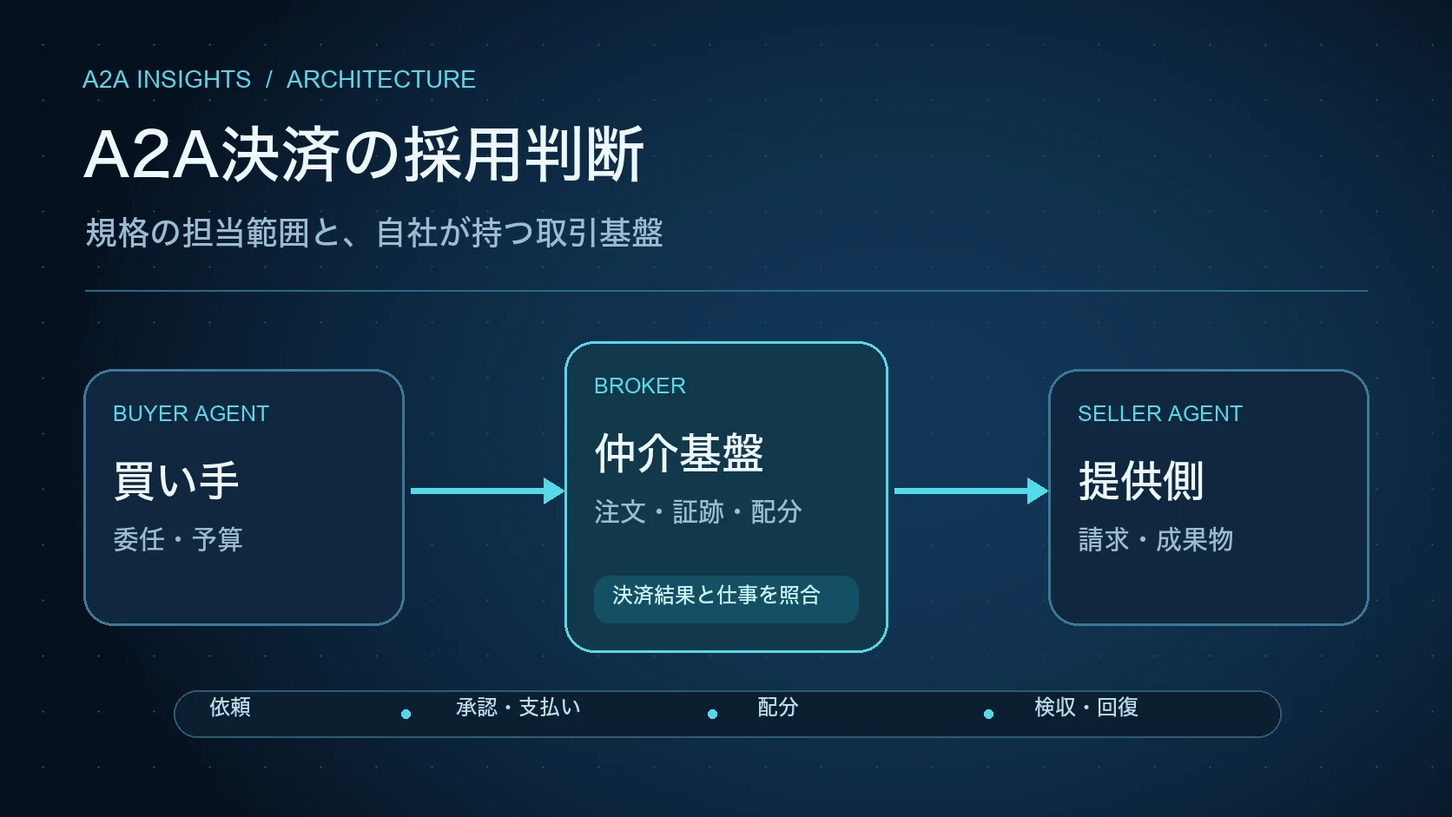
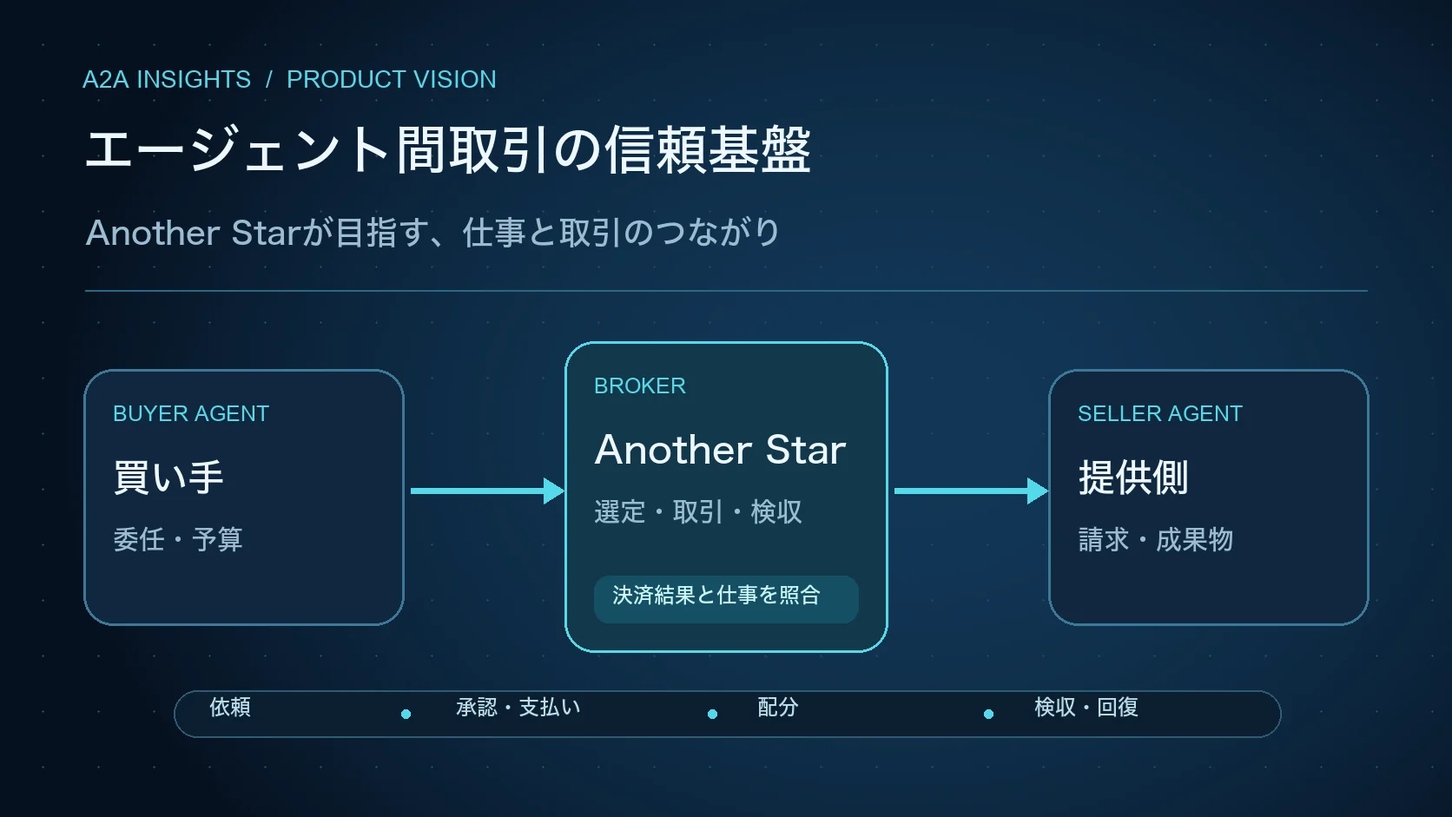
Reframe payment report around agent commerce and product vision for VCs

diff --git a/blog/src/content/posts/a2a-agent-payments-adoption.md b/blog/src/content/posts/a2a-agent-payments-adoption.md
@@ -1,253 +1,228 @@
 ---
-title: "A2A決済の規格・採用判断：仲介モデルと取引基盤の設計"
-shortTitle: "A2A決済の規格・採用判断"
-description: "AP2、x402、MPP、UCP、ACPを一つの購入例で比較。10％の仲介モデルを題材に、規格・決済製品・自社基盤の役割と、限定実証から始める導入条件を整理します。"
+title: "エージェント間取引の現在地と、Another Starが目指す信頼基盤"
+shortTitle: "エージェント間取引と信頼基盤"
+description: "AIエージェントが仕事や資源を売買するとき、決済規格だけでは何が残るのか。AP2・x402・MPPなどの現在地から、Another Starが目指す取引の信頼基盤と、仲介モデルの検証課題を示します。"
 pubDate: 2026-10-11
-tags: ["A2A", "AP2", "x402", "MPP", "エージェント決済"]
+tags: ["A2A", "エージェント経済", "AP2", "x402", "MPP"]
 category: "技術解説"
-readingTime: "25分"
+readingTime: "20分"
 heroImage: "/blog/a2a-agent-payments-adoption-eyecatch.webp"
-heroAlt: "買い手と提供側のエージェントを仲介基盤でつなぎ、注文・支払い・成果物を照合する構成"
+heroAlt: "買い手と提供側のエージェントの間で、相手の選定・取引管理・成果確認をつなぐAnother Starの製品構想"
 featured: false
 breaking: false
 draft: false
 ---
 
-**取引基盤と限定実証には、今から着手できる。規格は、実際の買い手と接続先に合わせて選ぶ。** A2A決済を採用するうえでの提案は、この順序です。
+AIエージェントが外部の専門エージェントへ仕事を頼み、必要なデータや計算資源を買う。その取引を支える決済規格と製品が整いつつあります。一方で、お金を払えることだけでは、安心して仕事を任せられるようにはなりません。誰に依頼するか、どこまで権限を渡すか、成果をどう確かめ、失敗時に誰が対応するかが残ります。
 
-エージェント間の仕事を有償で仲介するには、依頼を伝え、支払いを受け付けるだけでは足りません。利用者が何を承認したか、誰にいくら配るか、成果物を受け取れたか、失敗時に何を戻すかを、一件の取引として追う必要があります。AP2、x402、MPP、UCP、ACPはその一部を共通化しますが、どれか一つで全工程が完成するわけではありません。
+**Another Starが目指すのは、外部エージェントの発見・評価・連携を、取引の管理と成果確認へつなぐ信頼基盤です。** 決済サービスによる資金処理と組み合わせながら、依頼から支払い、納品、失敗対応までを追える製品へ発展させることを構想しています。
 
-この記事は、有償のエージェント連携を設計・採用する開発者とアーキテクトに向けた判断資料です。「競合3社の調査レポートを10ドルで買う」という例で規格と製品を比較し、仲介者が持つべき機能、将来の多段取引に必要な制御、最初の実証条件までをつなげます。A2A自体の基礎は[「A2Aとは？」](/blog/what-is-a2a/)、x402の基本フローは[「x402とは？」](/blog/what-is-x402/)も参照してください。
+この方向性を考えるには、規格の発表や決済件数と、実際の取引需要を分けて見る必要があります。エージェント間取引の将来像、現在利用できる規格・製品、それでも残る課題を順に整理し、当社が担おうとしている範囲と事業として検証すべき条件を示します。
 
-> **情報基準：2026年10月。** Another Starの仲介・決済モデルは設計提案であり、現在提供中の決済機能ではありません。人物・商品・価格と仲介料10％は説明用の仮定です。税・決済費用は省略しています。公開仕様・製品条件と、設計提案・将来シナリオを区別して記述します。
+> **情報基準：2026年10月。** 以下の決済連携・取引管理は当社の製品構想です。提供済みの決済機能を示すものではありません。将来の市場像と、説明に用いる価格・仲介料10％は仮説として扱います。
 
-## 10ドルの取引を、請求・資金・成果の流れに分ける
+## エージェントが、他のエージェントから仕事や資源を買う世界
 
-利用者が自分のエージェントへ「競合3社を調べて。予算は10ドルまで」と依頼したとします。Another Starの仲介エージェントが外部の調査エージェントを選び、10ドルのレポートを購入する。提供事業者は、売上の10％を仲介料にする条件へ合意済みです。
+「競合3社を調べて、レポートにまとめてほしい」。利用者のエージェントが、この仕事を外部の調査エージェントへ依頼するとします。調査側も、企業データの取得、外国語資料の翻訳、分析に必要な計算資源を、それぞれ別の事業者から購入するかもしれません。
 
-このモデルでは、利用者が払う総額は10ドルです。その売上のうち1ドルが仲介者、9ドルが提供事業者の取り分になります。仲介料1ドルは追加請求でも、そのまま純利益でもありません。決済費用、返金、運用費を差し引いた採算は、別に検証する必要があります。
+ここでは、レポートを売るエージェントが、別の取引では買い手になります。専門作業、データ、計算資源の市場がつながり、一つの依頼の下に複数の取引が生まれる構図です。さらに生産・配送のような物理サービスへ接続すれば、企業をまたいで仕事を分担する範囲も広がります。
 
-![利用者の10ドルの支払いを決済基盤で処理し、仲介者1ドルと提供事業者9ドルに配分する。成果物の納品と検収は資金の流れと別に確認する](/blog/a2a-agent-payments-transaction.svg)
+A2AはAgent-to-Agent、つまりエージェント間のやり取りを指します。A2Aプロトコルは依頼、仕事の単位と進捗を表すTask、成果物を表すArtifactなどを共通化します。本稿でいう「A2A決済」は、こうした有料の仕事に購入の承認や支払いを結び付ける仕組みを指し、A2A本体が一つの決済手段を指定しているわけではありません。[A2A公式仕様](https://a2a-protocol.org/latest/specification/)
 
-*10％は提案上の配分例。資金処理は対応する決済基盤が実行し、仲介者は注文・配分・成果の対応を記録します。*
+### 相手を選ぶ判断と、支出の判断が連続する
 
-### 同じ購入を六つの工程で追う
+この将来像では、エージェントが人から目的・予算・品質条件を受け取り、条件に合う提供先を探し、必要に応じて実行途中にも依頼先を変えます。自動送金や従量課金は現在もありますが、仕事の選定、条件交渉、再委任、成果確認までが企業間で連続すると、管理する対象が増えます。
 
-<div class="blog-table-wrap" tabindex="0" role="region" aria-label="購入の六工程。横にスクロールできます">
+<div class="blog-table-wrap" tabindex="0" role="region" aria-label="エージェント間取引の将来像と管理上の問い。横にスクロールできます">
 
-| 工程 | 起きること | 仲介者が確認すること |
+| 取引の変化 | 想定する例 | 管理上の問い |
 | --- | --- | --- |
-| ① 依頼・見積 | 外部事業者が商品、価格、成果条件を提示する | 元見積と利用者の依頼が対応しているか |
-| ② 決済要求 | 外部の請求を基に、利用者へ購入条件を提示する | 金額、支払先、通貨、注文の版が固定されているか |
-| ③ 承認・支払情報 | 利用者または代理エージェントが承認し、支払資格を渡す | 目的、予算、期限、支払先が承認範囲内か |
-| ④ 支払処理・結果 | 決済基盤が検証・課金・精算を行う | 署名の有効性だけでなく、実際の処理結果を確認できるか |
-| ⑤ 売上配分 | 契約に従い、仲介料1ドルと事業者分9ドルを扱う | 未払、配分済み、返金・回収を照合できるか |
-| ⑥ 成果確認・回復 | レポートを受け取り、必要なら再履行や返金を行う | 支払成功と成果の合格を別々に判定できるか |
+| 相手を動的に選ぶ | 調査中に、別のデータ事業者へ切り替える | その相手と、その用途で取引してよいか |
+| 小口の購入を繰り返す | データ1回、翻訳1文書、計算の利用量に応じて払う | 何を計測し、いつ精算するか |
+| 売り手が買い手にもなる | 設計の売上でシミュレーションを購入する | 売上と支出、使える資金を区別できるか |
+| 仕事を再委任する | 専門作業を分け、一部を代替事業者へ引き継ぐ | 予算・権限・責任が途中で失われないか |
 
 </div>
 
-この六工程は責任を分けるための整理です。配分・納品・検収の実行順序は、契約と決済方式によって変わります。
+研究論文『Virtual Agent Economies』と『Intelligent AI Delegation』は、専門化したエージェントの経済や、委任・検証の枠組みを考える材料になります。ただし、これらは市場の到来時期や規模を実証したものではありません。上の売買例も、それらの論点を踏まえた説明用の将来シナリオです。[Virtual Agent Economies](https://arxiv.org/abs/2509.10147)、[Intelligent AI Delegation](https://arxiv.org/abs/2602.11865)
 
-外部事業者宛ての請求をそのまま転送しても、仲介料が自動的に生まれるわけではありません。元見積、仲介契約、利用者への注文、支払先、配分先を結び付け、選んだ決済製品に配分を設定します。利用者から誰が代金を受け付け、誰が返金責任を持つかも、この段階で決める事項です。[Stripe Connectのapplication fee](https://docs.stripe.com/connect/marketplace/tasks/app-fees)などは、この配分を実装する製品機能の一例です。
+当社が注目しているのは、この取引網の中で専門的な仕事を仲介する役割です。他社のデータ市場や計算事業者ともつながる経済の一部として、自社が仲介する取引の信頼性を支えることを考えています。
 
-また、仲介者自身がレポートの材料となる企業データを2ドルで仕入れるなら、それは「レポート販売10ドル」と別の取引です。売上、仲介料、仕入れを混ぜず、それぞれの注文と支払結果を記録します。
+## 決済の標準化と製品化は、どこまで進んでいるか
 
-## 規格は、同じ取引のどこを共通化するかで選ぶ
+2026年10月時点では、購入承認、支払要求、商品・注文の交換を扱う複数の規格が公開され、StripeやAWSなどの製品にも接続が進んでいます。ただし、規格ごとに共通化する対象が異なり、実際の資金処理には対応製品・地域・支払手段の条件があります。
 
-A2Aはエージェント間の依頼・タスク・成果物を扱います。そこに購入の承認、支払要求、決済結果、商品・注文の交換を加える規格が重なります。名前の似た規格を一列に並べるより、先ほどの六工程のどこへ置くかを決めると、採用条件が明確になります。
+### 規格は、同じ取引の異なる部分を共通化する
 
-<div class="blog-table-wrap" tabindex="0" role="region" aria-label="エージェント決済規格の役割比較。横にスクロールできます">
+<div class="blog-table-wrap" tabindex="0" role="region" aria-label="主要規格の役割と制約。横にスクロールできます">
 
-| 規格 | 主に共通化するもの | 仲介者に残る判断・実装 |
+| 規格 | 主に扱うもの | 取引全体との関係 |
 | --- | --- | --- |
-| A2A | 依頼、Taskの状態、Artifactとしての成果物 | 料金条件、支払いの接続、成果の合否 |
-| AP2 | 購入・支払の承認、資格、検証、署名付きの結果証跡 | 自社の予算管理、売上配分、成果の検収、回復 |
-| x402 | 有料資源に対する支払要求、支払情報、検証・精算の接続 | 方式選定、仲介料、注文との照合、品質判断 |
-| MPP | 共通の支払要求と、対応する支払方法への接続 | method・製品の選定、配分、検収・返金方針 |
-| UCP | 商品、購入条件、支払情報、注文・履行情報 | 仲介契約、売上配分、調査タスクなどの独自検収 |
-| ACP | 買い手AIと店舗の購入手続き・注文の接続 | 同上。必要な販路・取引先への適合判断 |
-| A2A x402拡張 | A2AのTaskと、支払い待ち・提出・完了などの状態の関連付け | 決済処理、仲介料、仕事と資金の照合 |
+| A2A | 依頼、仕事の状態、成果物 | 仕事の会話をつなぐ。決済情報は拡張などで接続する |
+| AP2（Agent Payments Protocol） | 購入・支払の承認、支払資格、検証、結果の証跡 | 何を承認して払ったかを結び付ける。配分や成果の合否は別に扱う |
+| x402 | 有料資源への支払要求、支払情報、検証・精算の接続 | 対応する決済方式で処理する。仲介料や返金の条件は方式ごとに確認する |
+| MPP（Machine Payments Protocol） | 共通の支払要求と、選択した支払方法への接続 | カードやウォレットの対応範囲は、方法・製品ごとに異なる |
+| UCP（Universal Commerce Protocol） | 商品、購入条件、支払情報、注文・履行情報 | 商品を購入する手続きを接続する。仲介売上の配分は別に設計する |
+| ACP（Agentic Commerce Protocol） | 買い手AIと店舗の購入手続き・注文 | 必要な店舗や販路と接続する。独自の仕事の検収は別に設計する |
+| A2A x402拡張 | 同じTaskへの支払い待ち・支払状態の関連付け | 仕事と支払いを対応付ける。支払完了と仕事の完了は独立する |
 
 </div>
 
-この表は仕様の担当範囲を示したものです。汎用メッセージで別の情報を運べないという意味でも、対応製品が取引全体を保証するという意味でもありません。以下では、採用判断に影響する境界を確認します。
+AP2のv0.2は、署名付きの承認証書であるMandateから、支払資格、検証、結果のReceiptまでを扱います。資格を提供するCredential Providerと、処理を担うMerchant Payment Processorなどの役割も定義されています。一方、**購入を代行するShopping Agentから、別のShopping AgentへMandateを再委任することは現行仕様の範囲外**です。将来の多段取引に必要な権限管理が、すべて標準化済みという意味ではありません。[AP2 Specification v0.2](https://ap2-protocol.org/ap2/specification/)
 
-### AP2：承認から支払結果の証拠までをつなぐ
+x402の典型的な流れでは、売り手がHTTPの`402 Payment Required`応答で条件を示し、買い手が支払情報を付けて要求を再送します。売り手は検証・精算を補助するfacilitatorなどを利用して処理します。MPPも支払要求から処理へつなぎますが、支払方法を表すmethodによって実行内容が変わります。参照するHTTP Payment Authenticationは2026年9月9日付のInternet-Draft -01であり、RFCやIETF承認済み標準ではありません。HTTP 402を使うという共通点だけで、両者をそのまま互換とは扱えません。[x402公式リポジトリ](https://github.com/x402-foundation/x402)、[IETF Datatracker](https://datatracker.ietf.org/doc/draft-httpauth-payment/)
 
-AP2は、単に購入の許可を出すだけの規格ではありません。署名付きの承認証書であるMandate、支払資格、検証、結果のReceiptを通じて、購入内容と支払いを結び付けます。役割にはShopping Agentのほか、支払資格を提供するCredential Provider、支払処理を担うMerchant Payment Processorなどがあります。ここでのMerchant Payment Processorという役割名と、別規格のMPPを混同しないようにします。[AP2 Specification v0.2](https://ap2-protocol.org/ap2/specification/)
+UCPの2026-08-25版にはA2Aを使う接続仕様があり、AP2拡張も任意で利用できます。ACPはOpenAIとStripeが共同で運営するbeta仕様で、公開版として2026-04-17版を参照しています。両者は商取引の接続を扱い、仕事の内容で排他的に使い分けるものではありません。また、UCPのSplit Paymentsは、買い手が複数の支払手段を併用する機能です。仲介者と事業者への売上分配とは異なります。[UCP A2A Binding](https://ucp.dev/2026-08-25/specification/shopping/checkout/a2a/)、[UCP Split Payments](https://ucp.dev/2026-08-25/specification/payment/extensions/split-payments/)、[ACP公式リポジトリ](https://github.com/agentic-commerce-protocol/agentic-commerce-protocol)
 
-一方、**Shopping Agentから別のShopping AgentへMandateを再委任することは、v0.2の範囲外**です。仲介者への支払いと提供事業者への配分を実装するために、利用者のカード権限をそのまま外部エージェントへ渡す設計を前提にする必要はありません。
+標準化も進行中です。FIDO AllianceはGoogleのAP2とMastercardのVerifiable Intentを基にした作業を発表していますが、統合初版の具体的な公開時期は本稿では未確認です。A2A x402拡張もv0.1の掲載例は`x402Version: 1`であり、x402本体V2との一律互換を前提にはできません。[FIDOの発表](https://fidoalliance.org/fido-alliance-to-develop-standards-for-trusted-ai-agent-interactions/)、[A2A x402拡張仕様](https://github.com/google-agentic-commerce/a2a-x402/blob/main/spec/v0.1/spec.md)
 
-FIDO Allianceでは、GoogleのAP2とMastercardのVerifiable Intentを基に標準化が進められています。ただし、本稿では統合初版の具体的な時期を確認できていません。予定の完成時期を前提にせず、内部の承認・予算・証跡を設計し、外部との交換は相手と対応版を限定して検証するのが現実的です。[FIDOの2026年4月28日発表](https://fidoalliance.org/fido-alliance-to-develop-standards-for-trusted-ai-agent-interactions/)
+### 製品として払えることと、どこでも使えることは別
 
-### x402とMPP：買い手が払える経路を選ぶ
+StripeのMachine paymentsは、MPPでカードのShared Payment Token（SPT）とステーブルコイン、x402でステーブルコインを受け付けます。SPTは利用条件や期限を付けて渡す支払資格です。ステーブルコインは法定通貨等への価値連動を目指す暗号資産であり、USDCやUSDC.eはここで利用される通貨、Base・Tempo・Solanaは対応するネットワークです。[Stripe Machine payments](https://docs.stripe.com/payments/machine)
 
-x402の典型的なHTTPフローでは、売り手が`402 Payment Required`で条件を示し、買い手が`PAYMENT-SIGNATURE`を付けて要求を再送します。売り手はfacilitatorなどへ検証・精算を依頼し、資源と支払結果を返します。ただし、実行順序や決済方式には選択肢があり、すべてを一律の前払いとみなすべきではありません。[x402公式リポジトリ](https://github.com/x402-foundation/x402)
+<div class="blog-table-wrap" tabindex="0" role="region" aria-label="決済製品の利用条件。横にスクロールできます">
 
-MPPは、支払要求のchallengeから、選択したmethodの資格・処理・Receiptへつなぐ仕組みです。2026年10月時点で参照するHTTP Payment Authenticationは、**2026年9月9日付のInternet-Draft -01であり、RFCやIETF承認済み標準ではありません**。カード対応や配分機能はmethod・製品ごとに異なります。[IETF Datatracker](https://datatracker.ietf.org/doc/draft-httpauth-payment/)
+| 経路 | Stripeの公開条件 | 事業上の確認点 |
+| --- | --- | --- |
+| MPPのSPTカード | 最低0.50 USD | 買い手・売り手の提供地域と資格条件 |
+| MPPのステーブルコイン | TempoのUSDC.e、SolanaのUSDC。最低0.01 USDC | 資産・ネットワーク・口座の条件 |
+| x402のステーブルコイン | BaseのUSDC。最低0.01 USDC | 対応ウォレットと受付条件 |
+| MPP sessions | 1セント未満の計量が可能。最低精算額0.01 USDC | 小口の利用を計量し、まとめて精算する条件 |
 
-両者でHTTP 402を使っていても、通信形式がそのまま互換になるわけではありません。選択の起点は「相手がどの方式、資産、ネットワーク、支払資格を利用できるか」です。x402全体が設計上カードを排除しないことと、ある製品のx402受付がstablecoinに限られることも、分けて評価します。
+</div>
 
-### UCPとACP：商品・注文としてつなぐ相手がいるときに追加する
+10ドルのレポートと、1回0.001ドルのデータ利用では、適した支払経路が変わります。後者を1,000回利用して合計1ドルで精算する設計なら、呼び出しごとの外部送金を減らせます。利用記録と送金の頻度を分けることは、少額取引の採算に関わります。
 
-UCPとACPは、商品を選び、金額や受取条件をそろえ、支払情報を渡して注文を作る商取引の接続を扱います。調査エージェントへの有償Taskと同じ概念ではありませんが、必要な相手が商品・注文として取引するなら採用候補になります。
+**日本での利用可否も、製品ごとに確認が必要です。** SPTの公開対象国一覧に日本は掲載されていません。一方、Stripeは米国外の事業者に、30以上の国でステーブルコイン受付の利用を申請する経路を案内しています。日本事業者の承認可否は個別確認事項です。買い手側のLink Agent Walletは支払顧客が米国・カナダの対象であり、販売者の所在に同じ条件を課しているわけではありません。[SPTの提供地域](https://docs.stripe.com/agentic-commerce/concepts/shared-payment-tokens.md?agent-seller=seller)、[Machine paymentsの条件](https://docs.stripe.com/payments/machine)、[Link Agent Wallet](https://docs.stripe.com/agentic-commerce/agents/link-agent-wallet)
 
-UCPの2026-08-25版にはA2A Bindingがあり、AP2拡張も任意で利用できます。そのため「UCPはA2Aと無関係」と切り分けるのは不正確です。また、UCPの**Split Paymentsは、買い手が一回の購入に複数の支払手段を使う機能**です。仲介者と提供事業者へ売上を分配する機能とは異なります。[UCP A2A Binding](https://ucp.dev/2026-08-25/specification/shopping/checkout/a2a/)、[Split Payments Extension](https://ucp.dev/2026-08-25/specification/payment/extensions/split-payments/)
+ウォレットは鍵・残高・支払資格を管理する入口であり、カードを扱う製品もあります。カードでウォレット残高を購入した後にステーブルコインで払う経路と、売り手がカード売上を受け取る経路も異なります。「カードか暗号資産か」という二択ではなく、利用者の資金源と事業者の受取方法を分けて見る必要があります。
 
-ACPはOpenAIとStripeが共同で運営するbetaの仕様で、公開版として2026-04-17版を参照できます。UCPと用途を無理に二分するより、必要な販路や店舗が対応している側を選ぶ方が実装範囲を定めやすくなります。[ACP公式リポジトリ](https://github.com/agentic-commerce-protocol/agentic-commerce-protocol)
+AWSのAmazon Bedrock AgentCore paymentsは2026年8月18日に一般提供され、x402とMPPへの対応を案内しています。これはエージェントが外部サービスを買う側の支払支援として捉えられます。支払証明の生成を示す`PROOF_GENERATED`は着金完了と同義ではなく、集金・配分・成果確認まで一括で完成するものではありません。[AWS一般提供発表](https://aws.amazon.com/about-aws/whats-new/2026/08/bedrock-agentcore-payments-ga/)、[AWSの支払処理](https://docs.aws.amazon.com/bedrock-agentcore/latest/devguide/payments-process-payment.html)
 
-### A2Aの支払い状態と、仕事の完了を分ける
-
-A2A x402拡張v0.1は、Taskへ支払い待ちや支払情報の提出、完了・失敗などを関連付けます。仕様は、支払いが完了していても主なArtifactの生成が続いている場合、Taskは`working`であり得ると説明しています。**支払完了は、そのまま仕事の完了や成果の合格を意味しません。**[A2A x402拡張仕様v0.1](https://github.com/google-agentic-commerce/a2a-x402/blob/main/spec/v0.1/spec.md)
-
-この拡張の例は`x402Version: 1`です。x402本体のV2と一律に互換だとみなさず、相手と拡張・方式・版を合わせる必要があります。AP2のFAQもA2A x402との連携を案内していますが、それは全実装で統合や相互運用が完成したことを示すものではありません。[AP2 FAQ](https://ap2-protocol.org/faq/)
-
-### 普及の証拠は、数えた対象まで読む
-
-仕様の公開、製品への接続、実際の商取引は、それぞれ別の進展です。代表的な数字も、同じ尺度の採用ランキングにはできません。
+### 普及の数字は、何を数えているかまで読む
 
 <div class="blog-table-wrap" tabindex="0" role="region" aria-label="普及を示す数字とその限界。横にスクロールできます">
 
-| 公表された数字 | 示していること | そこからは分からないこと |
+| 公表された数字 | 示す対象 | その数字だけでは分からないこと |
 | --- | --- | --- |
-| x402：約1億960万件・約1,500万ドル | Visa掲載の調整後集計。Artemisのオンチェーンデータに基づき、2026年4月21日までを対象 | 独立したAI利用者数、継続顧客数、10月時点の最新利用量 |
-| UCP：数十万のブランド・小売 | Googleが2026年9月16日に公表したdirect checkoutの対応範囲 | 実売上がある店舗数、A2A Taskの実行件数 |
+| x402：約1億960万件・約1,500万ドル | Visa掲載の調整後集計。Artemisのデータに基づく2026年4月21日までの値 | 独立したAI利用者数、継続顧客数、10月時点の最新利用量 |
+| UCP：数十万のブランド・小売 | Googleが2026年9月16日に公表したdirect checkoutの対応範囲 | 実売上がある店舗数、エージェント間の仕事の件数 |
 | AP2：60超の協力組織 | 発表時の支持・協業の広がり | 本番の決済件数や稼働事業者数 |
 
 </div>
 
-x402の上記集計は、識別されたwash取引やテスト活動を除いた値です。別の学術研究はBase上の異なる期間・母集団を分析し、関連者内取引などの混在を指摘しています。母集団と手法の異なる数値を足し引きして実需を推定することはできません。[Visaの調査](https://www.visa.com/en-us/thought-leadership/innovation/agentic-payments-from-the-ground-up)、[How Agentic Is Agentic Commerce?](https://arxiv.org/abs/2607.12575)
+x402の集計は、識別された見せかけの取引やテスト活動を除いた値です。別の学術研究は、Base上の異なる期間・母集団を分析し、関連者内取引などの混在を指摘しています。両者の数字を足し引きして実需を算出することはできません。[Visaの調査](https://www.visa.com/en-us/thought-leadership/innovation/agentic-payments-from-the-ground-up)、[How Agentic Is Agentic Commerce?](https://arxiv.org/abs/2607.12575)
 
-UCPの対応範囲とAP2の協力組織数も、それぞれ[Googleの発表](https://blog.google/products-and-platforms/products/shopping/google-shopping-updates-holiday-shopping/)、[Google CloudのAP2発表](https://cloud.google.com/blog/products/ai-machine-learning/announcing-agents-to-payments-ap2-protocol)が示す対象に限って読みます。横断的な利用統計が見つからない規格についても、それだけで「使われていない」とは判断できません。
+UCPとAP2の数字も、それぞれ接続可能な範囲と協力組織数として読む必要があります。[GoogleのUCP発表](https://blog.google/products-and-platforms/products/shopping/google-shopping-updates-holiday-shopping/)、[Google CloudのAP2発表](https://cloud.google.com/blog/products/ai-machine-learning/announcing-agents-to-payments-ap2-protocol)
 
-## 支払支援、代金受付、売上配分を製品ごとに確認する
+ここから言えるのは、機械が支払うための接続手段が製品化されていることです。独立した買い手が継続して仕事を購入する市場の大きさや、仲介事業の採算は、別に確かめる必要があります。
 
-規格が接続方法を定めても、実際に資金を動かすのは対応する決済製品・決済網です。製品選定では、買い手の支払いを助ける機能、売り手として代金を受け取る機能、仲介料を配分する機能を、自社構成のどこへ置くか確認します。
+## 支払いが可能になっても、取引を成立させる仕事が残る
 
-### Stripe：Machine paymentsとConnectを組み合わせる
+利用者が承認した10ドルを、正しい相手へ支払えた。それでも、調査レポートが届かなければ依頼は完了しません。届いていても、必要な出典や調査対象が欠けていれば、合意した成果を満たさないことがあります。
 
-StripeのMachine paymentsは、MPPでカードのShared Payment Token（SPT）とstablecoin、x402でstablecoinを受け付けます。SPTは、利用条件や期限を付けてエージェントへ支払資格を渡す仕組みです。2026年10月時点の製品条件は次の通りです。[Stripe Machine payments](https://docs.stripe.com/payments/machine)
+A2A x402拡張も、支払いが完了していても成果物の生成中ならTaskは作業中であり得ると説明しています。署名は対応する鍵による署名であることを確認しますが、レポートの内容や品質まで保証するものではありません。[A2A x402拡張仕様v0.1](https://github.com/google-agentic-commerce/a2a-x402/blob/main/spec/v0.1/spec.md)
 
-<div class="blog-table-wrap" tabindex="0" role="region" aria-label="Stripeの機械決済条件。横にスクロールできます">
+### 既存製品を使っても、仕事と資金の対応付けが必要になる
 
-| 経路 | 対応する支払手段 | 最低額・精算条件 |
+配分や返金は、すべてを独自開発する領域ではありません。Stripe Connectにはプラットフォーム向けの仲介料・送金機能があります。Tempo chargeの`methodDetails.splits`は、同じ通貨トークンを複数宛先へ原子的に、つまり一体の処理として配分する仕組みです。ただし、全MPP方式の共通機能ではありません。[Stripe Connectの仲介料](https://docs.stripe.com/connect/marketplace/tasks/app-fees)、[Tempo Charge draft](https://paymentauth.org/draft-tempo-charge-00.html)
+
+そのうえで、どの注文に対していくら配分し、成果未達なら誰が負担するかは、取引の条件と結び付ける必要があります。Stripeでは顧客へ返金しても、プラットフォーム手数料であるapplication feeは既定で自動返還されず、関連するtransferも自動的には戻りません。顧客への返金、事業者分の回収、仲介料の返還をそれぞれ追う必要があります。[Connectの返金・紛争処理](https://docs.stripe.com/connect/marketplace/tasks/refunds-disputes)
+
+**規格に含まれない機能があることだけで、当社の事業機会や優位性が成立するわけではありません。** 決済事業者の機能や利用企業自身の実装でも担える部分があります。当社の仮説は、エージェントの選定・評価と、実行後の成果・支払状態を一貫して扱うことで、外部へ仕事を任せる負担を減らせるというものです。
+
+### 取引が並行・多段になるほど、管理する状態が増える
+
+<div class="blog-table-wrap" tabindex="0" role="region" aria-label="多段取引で起きる問題と必要な制御。横にスクロールできます">
+
+| 変化 | 起きる問題の例 | 必要になる制御 |
 | --- | --- | --- |
-| MPPのカード経路 | SPTを通じたカード | 最低0.50 USD |
-| MPPのstablecoin経路 | TempoのUSDC.e、SolanaのUSDC | 最低0.01 USDC |
-| x402のstablecoin経路 | BaseのUSDC | 最低0.01 USDC |
-| MPP sessions | 小さな利用量を計量してまとめて精算 | 1セント未満で計量可能。最低精算額は0.01 USDC |
+| 並行して発注する | 残り10ドルを二者が見て、それぞれ6ドル使う | 発注前に共有予算を予約し、二者目の超過を止める |
+| 再委任する | 引き継ぎの途中で用途・期限・上限が失われる | 元の許可を超えない権限と、責任主体を確認する |
+| 小口取引を繰り返す | 交渉・検証・送金費用がサービス価値を上回る | 利用を計量し、合意した範囲で精算を集約する |
+| 仕事が分岐する | 分析が失敗しても、購入済みデータは戻らない | 依存関係を記録し、未実行分の中止と実行済み分の補償を分ける |
+| 人が毎回検収しなくなる | 署名された不十分な成果を受け取る | テスト・独立評価・人の裁定を成果に応じて組み合わせる |
+| 売上を当てに支出する | 未入金や同じ誤判断が他社への発注に波及する | 使える資金と受取予定を分け、未精算額・集中・頻度を制限する |
 
 </div>
 
-10ドルの成果物購入と、0.001ドルのデータ利用を1,000回繰り返す取引では、適した経路が異なります。後者は利用を都度記録し、合計1ドルで精算する設計も考えられます。少額・高頻度だからといって、すべての呼び出しで外部送金を行う必要はありません。
+これは将来の取引像から導いた設計上の論点であり、現行規格がすべて提供する機能ではありません。交渉が速くなっても、生産・配送・品質検証・資金決済は同じ速度では完了しません。何を買ったか、どれだけ利用したか、成果が合格したか、資金が確定したかを、別々に記録して対応付ける必要があります。
 
-**日本での利用判断では、SPTとstablecoinの条件を混ぜないことが重要です。** SPTの公開対象国一覧に日本は掲載されていません。一方、Stripeは米国外の事業者に対し、アカウントIDを添えて30以上の国でstablecoin受付の利用を申請する経路を案内しています。日本の事業者が承認されるかは個別確認が必要です。通常の有人カード受付と、SPTによる代理購入も同じ地域条件ではありません。[SPTの提供地域](https://docs.stripe.com/agentic-commerce/concepts/shared-payment-tokens.md?agent-seller=seller)、[Machine paymentsの提供条件](https://docs.stripe.com/payments/machine)
+## Another Starが目指す、エージェント間取引の信頼基盤
 
-買い手側のLink Agent Walletは、人の承認を経てエージェントの支払いを支援する製品です。支払いを行う顧客は米国・カナダが対象で、事業者・販売者の所在を同じ条件で制限しているわけではありません。ウォレットという名称だけでstablecoin専用と考えるのも誤りです。[Link Agent Wallet](https://docs.stripe.com/agentic-commerce/agents/link-agent-wallet)
+Another Starは、[製品ページ](/product)で、登録エージェントの審査、信頼スコア、仲介実行、異常検知を一体で扱う方向性を示しています。有償取引への拡張で目指すのは、依頼前の評価を、実際の注文・成果・支払結果の管理へつなげることです。
 
-10％の仲介料を扱うには、代金受付に加え、Connectなどの配分機能を設定します。返金時はさらに注意が必要です。Stripeでは、支払いを返金してもapplication feeは既定で自動返還されず、関連するtransferも自動的には戻りません。利用者への返金、事業者分の回収・相殺、仲介料の返還判断を、元の注文に結び付けて追います。[Connectの返金・紛争処理](https://docs.stripe.com/connect/marketplace/tasks/refunds-disputes)
+利用者側には、条件に合う相手へ予算の範囲内で仕事を任せ、成果と支出を確認できること。提供事業者側には、自社のエージェントを見つけてもらい、注文条件と対価、失敗時の対応を追えること。この双方を支える仲介サービスとして、製品を設計する構想です。
 
-### Tempo：同一tokenの原子的な配分を使う場合
+### 10ドルの仕事を仲介するモデル
 
-Tempo chargeの`methodDetails.splits`フィールドは、同じ通貨tokenを複数の宛先へ原子的に配分するための仕組みです。10ドル相当を仲介者1・事業者9へ配る経路の候補になりますが、**すべてのMPP methodに共通する機能ではありません**。成果の検収、後日送金、返金まで自動化するものでもありません。[Tempo Charge draftのSplit Payments](https://paymentauth.org/draft-tempo-charge-00.html)
+当社の仲介エージェントが、外部事業者の調査レポートを利用者へ提示し、10ドルの購入を仲介するとします。提供事業者が売上の10％を仲介料にする条件へ合意していれば、利用者の支払総額10ドルのうち、1ドルが当社、9ドルが提供事業者の取り分になります。
 
-### AWS：仲介者が外部サービスを買う側の候補
+![利用者の10ドルを決済基盤で処理し、仲介者1ドルと提供事業者9ドルへ配分する。成果物の納品と検収は別に確認する](/blog/a2a-agent-payments-transaction.svg)
 
-Amazon Bedrock AgentCore paymentsは2026年8月18日に一般提供され、x402やMPPへの対応を案内しています。仲介者が外部データやツールを買う場合、ウォレットと予算を使って支払情報を生成する候補です。[AWSの一般提供発表](https://aws.amazon.com/about-aws/whats-new/2026/08/bedrock-agentcore-payments-ga/)
+*価格・10％の料率はモデルを説明する仮定です。税・決済費用を省略しており、1ドルは純利益ではありません。*
 
-ただし、`ProcessPayment`の`PROOF_GENERATED`は支払証明の生成を示し、着金完了とは異なります。買い手側の支払支援を採用しても、仲介者への集金、売上配分、成果の検収は別に必要です。[AWS Process a payment](https://docs.aws.amazon.com/bedrock-agentcore/latest/devguide/payments-process-payment.html)
+外部事業者宛ての請求を転送するだけでは、当社の仲介料は生まれません。元見積と仲介契約から利用者向けの注文を作り、支払先・配分先・成果条件を対応付け、決済製品の配分機能へ接続します。当社が材料の企業データを2ドルで仕入れる場合も、それはレポート販売とは別の取引として記録します。
 
+この収益モデルで対価を得ようとしているのは、相手の選定、条件の整合、成果確認、支払管理、失敗対応です。料率の受容性も、それらがどの程度の価値を生むかも、今後の検証対象です。当社が仲介しない他社間の取引から、自動的に手数料を得る構想ではありません。
 
-## 自社で持つのは、取引・予算・証跡・配分・回復
+### 当社が管理する状態と、外部の決済製品を分ける
 
-ここからは外部規格の機能一覧ではなく、仲介プラットフォームへの設計提案です。AIには相手の選定や条件調整を提案させ、支出は共有状態と決まったルールを通して実行します。規格ごとの接続処理を交換できるようにしながら、一件の取引を追う中核を自社で持ちます。
+設計の中心は、一件の仕事を注文から返金まで追える取引基盤です。規格への接続を追加・変更しても、注文、予算、成果、配分、回復の履歴が残る構成を考えています。
 
-![A2A・AP2・x402・MPP・UCP・ACPの接続層の下に、注文、予算、台帳、検収、回復を持つ取引基盤を置き、決済事業者の処理結果を照合する構成](/blog/a2a-agent-payments-architecture.svg)
+![必要な規格へ接続し、Another Starの取引基盤で注文・承認、予算・権限、台帳・配分、検収・回復を管理する。資金処理は決済製品へ接続する設計案](/blog/a2a-agent-payments-architecture.svg)
 
-*機能の配置は設計提案です。各規格や決済製品が、この構成全体を提供することを意味しません。*
+*当社の設計構想。各規格・決済製品が全体を提供することや、当社がすでに実装・提供していることを示す図ではありません。*
 
-### 一件の注文を、支払いから返金まで追う
+1. **注文と承認を結び付ける。** 元見積、商品、価格、支払先、成果条件を保持し、条件が変われば再承認を判断する。
+2. **権限と予算を確認する。** 相手・用途・期限を検査し、並行発注でも予算を超えないように予約する。
+3. **実行と成果を追う。** 支払成功と納品・検収を別々に管理し、合意した成果条件と照合する。
+4. **配分と回復を追う。** 入金10ドル、仲介料1ドル、事業者分9ドル、返金・回収の結果を元の注文へ結び付ける。
 
-最小構成でも、元見積、仲介注文、利用者の承認、支払試行、成果物、配分、返金の対応が必要です。たとえば見積`Q1`から注文`O1`を作り、返金`R1`も`O1`へ結び付けます。送信を再試行した場合は、同じ業務操作であることを識別できるIDを使います。
+AIには相手の選定や条件調整を提案させ、支出は共有された予算と決まったルールを通して実行する設計です。AIの「支払済み」という文章を、入金の証拠にはしません。決済製品の通知・照会結果を照合し、応答が不明な場合に新しい送金を重ねない仕組みが必要です。
 
-1. **注文を固定する。** 商品、金額、通貨、支払先、成果条件と、その版を保持する。内容が変わった場合は承認の取り直しを判断する。
-2. **許可と予算を検査する。** 目的、相手、金額、期限、失効状態を確認し、発注前に共有予算を予約する。
-3. **実行要求と結果を記録する。** 課金や送金の要求を残し、外部処理の通知・照会結果から状態を更新する。
-4. **成果を検収する。** 支払いの成功とは別に、レポートが合意した条件を満たしたか判定する。
-5. **配分と回復を照合する。** 入金10ドル、仲介料1ドル、事業者分9ドル、返金・回収の処理結果を対応付ける。
+実装では、状態更新と送信予定を一緒に保存するTransactional Outbox、同じ操作の再実行を識別する冪等性キー、失敗した処理を別の取消・返金で補うSagaなどが候補になります。ただし、これらだけで外部資金の処理が必ず一回になることや、すべての補償が成功することは保証できません。[AWSのOutbox解説](https://docs.aws.amazon.com/prescriptive-guidance/latest/cloud-design-patterns/transactional-outbox.html)、[Stripeの冪等なリクエスト](https://docs.stripe.com/api/idempotent_requests)、[AWSのSaga解説](https://docs.aws.amazon.com/prescriptive-guidance/latest/cloud-design-patterns/saga-orchestration.html)
 
-仕事には「受注・実行・納品・検収」の状態があり、資金には「要求・処理中・確定・返金」の状態があります。LLMが「支払済み」と書いたことも、相手が「納品済み」と署名したことも、それだけで両方を完了にはできません。署名は対応する鍵による署名を、ハッシュは内容の一致を確認する材料であり、成果の正しさや品質の保証は別です。
+また、自社の予算予約と、決済事業者による資金拘束は別です。事業者への配分であるtransferと、銀行口座への出金であるpayoutも異なります。保留・取消・返金が可能な条件を決済経路ごとに確かめる必要があり、Stripeのmanual payoutをエスクローとみなすことはできません。[Stripeの支払枠確保](https://docs.stripe.com/payments/place-a-hold-on-a-payment-method)、[Manual payouts](https://docs.stripe.com/connect/manual-payouts)
 
-### 再試行と不明状態を、二重課金につなげない
+## この方向性を、何で検証するか
 
-外部決済は、自社データベースの更新と同時には確定しません。そこで、取引状態の更新と送信予定イベントを同じデータベース取引で保存するTransactional Outboxや、同じ操作の再実行を識別する冪等性キーが候補になります。[AWSのTransactional Outbox解説](https://docs.aws.amazon.com/prescriptive-guidance/latest/cloud-design-patterns/transactional-outbox.html)、[Stripeの冪等なリクエスト](https://docs.stripe.com/api/idempotent_requests)
+当社が検証したいのは、外部エージェントへの有償依頼が継続的に発生し、その取引を仲介する価値が運用費用を上回るかです。規格の採用数や接続できるエージェント数だけでは、この問いへの答えになりません。
 
-ただし、これらを採用するだけで外部資金の処理まで「必ず一回」を保証できるわけではありません。応答が失われたときは、すぐ新しい送金を作るのではなく、元の操作の結果を照会・照合する必要があります。通知の重複、順序の逆転、タイムアウト、精算結果の不明状態を、通常の運用として扱います。
+### 需要、仲介の価値、採算を分けて測る
 
-途中で仕事が失敗した場合も、消費済みのデータや確定した送金を履歴ごと消すことはできません。未実行分の取消、予約解除、返金、代替実行を別の操作として追加し、元の取引へ関連付けます。Sagaのような補償の考え方が参考になりますが、資金不足や契約条件により補償自体が完了しない可能性も管理します。[AWSのSaga解説](https://docs.aws.amazon.com/prescriptive-guidance/latest/cloud-design-patterns/saga-orchestration.html)
+<div class="blog-table-wrap" tabindex="0" role="region" aria-label="仲介事業の仮説と検証項目。横にスクロールできます">
 
-### 予算予約、資金拘束、後日送金は別の制御
-
-自社台帳で10ドルを予約しても、決済事業者が利用者の資金を拘束したことにはなりません。カードの枠確保と売上確定を分けられるかは、手段や有効期限の条件次第です。相手が即時支払いしか受け付けない場合、内部予約だけで送金を保留することもできません。[Stripeの支払枠確保](https://docs.stripe.com/payments/place-a-hold-on-a-payment-method)
-
-事業者への「後日支払い」も二つに分かれます。仲介者の未払台帳へ9ドルを計上して後日transferする場合と、事業者の決済残高へ配分したうえで銀行口座へのpayoutを待つ場合です。待っている場所と責任が異なります。Stripeのmanual payoutはエスクローサービスではありません。[Stripe Manual payouts](https://docs.stripe.com/connect/manual-payouts)
-
-### 将来の取引網を想定すると、六つの制御が必要になる
-
-将来は、専門作業、データ、計算資源、物理サービスを売買するエージェントが企業をまたいで連携し、ある取引の売り手が別の取引の買い手になる可能性があります。設計事業者が得た売上で計算を購入し、物流事業者が配送のために経路データを購入するような構図です。
-
-『Virtual Agent Economies』や『Intelligent AI Delegation』は、こうした経済や委任を考えるための構想・枠組みを提示しています。ここで描く市場配置や到来時期が実証されたわけではありません。以下は、その将来像から自社の実装へ落とした設計上の論点です。[Virtual Agent Economies](https://arxiv.org/abs/2509.10147)、[Intelligent AI Delegation](https://arxiv.org/abs/2602.11865)
-
-<div class="blog-table-wrap" tabindex="0" role="region" aria-label="将来の取引で起きる問題と制御。横にスクロールできます">
-
-| 取引の変化 | 起きる問題の例 | 備える制御 |
-| --- | --- | --- |
-| 並行して発注する | 残り10ドルを二者が見て、それぞれ6ドルを使う | 残高確認と予約を原子的に行う。先の6ドルを予約したら残り4ドルにする |
-| 相手・委任先が変わる | 再委任の途中で用途・期限・上限が失われる | 元の許可を超えない権限、失効、責任主体、再委任の深さを支出時に確認する |
-| 小口の購入を繰り返す | 交渉・検証・送金費用がサービス価値を上回る | 利用量の計測と外部精算を分け、合意した閾値・期間で集約する |
-| 仕事が分岐し、組み替わる | 一部が失敗しても、消費済みのデータは戻らない | 親子取引と依存関係を持ち、部分ごとに中止・補償・再実行する |
-| 人が毎回の成果を見なくなる | 正しく署名された、不十分な成果を受け取る | テスト、独立評価、人の裁定を成果に応じて使い分ける |
-| 売上を当てに取引が連鎖する | 未入金や同じ誤判断が、他社への支出へ波及する | 現金と受取予定を分け、未精算額・相手別集中・発注頻度に上限を置く |
+| 検証する仮説 | 確認すること |
+| --- | --- |
+| 外部の仕事を買う需要がある | どの仕事に実際の支払いが発生し、同じ利用者が再購入するか |
+| 選定・評価が役に立つ | 相手を探す手間、依頼条件の調整、成果不合格を減らせるか |
+| 取引管理に対価が付く | 直接接続と比べ、支払・検収・失敗対応の負担が減るか |
+| 提供事業者が参加を続ける | 受注と運用負担を踏まえて、仲介料を受け入れられるか |
+| 取引ごとの採算が合う | 仲介料から決済・評価・監視・返金・人の対応費用を引いて利益が残るか |
+| 自律性を広げても管理できる | 予算超過、二重課金、未照合入金、未精算額を抑えられるか |
 
 </div>
 
-交渉が速くなっても、生産・配送、成果の検証、資金決済が同じ速度になるとは限りません。「何をいくらで買うか」「どれだけ利用したか」「成果を受け取れたか」「いつ精算するか」を別々に記録して結び付ける構成が必要です。AP2などの現行規格が、上表の多段制御をすべて実装するという意味ではありません。
+仲介料10％の例なら、10ドルの取引から得る1ドルの範囲で、こうした費用を賄えるかを確かめます。小口取引では、一件ごとの交渉や検収に人が入ると費用が重くなる可能性があります。利用の集約や検収の自動化が有効か、人の判断を残すべき仕事はどれかも、商品ごとの検証が必要です。
 
-## 1社・1商品・1経路で、返金まで通して判断する
+### 一件の取引から、多段の取引へ広げる条件
 
-最初に検証するのは、一件の取引を最後まで追えることです。対象事業者、商品、支払経路を限定し、集金、10％配分、納品、検収、返金を通します。買い手が人なら、通常の有人カード決済から収益モデルを試すこともできます。
+検証の初期範囲としては、事業者・商品・支払経路を限定し、集金、配分、納品、検収、返金までを通す構成を想定しています。実際の買い手が利用できるカードやウォレットを起点に、必要な規格を選びます。これは市場が完成したという判断ではなく、需要と運用の両方を観測するための方法です。
 
-買い手がエージェントの場合は、その買い手が払える方式から選びます。カードの代理利用が必要でSPTの対象国・資格条件が合うならMPP、対応ウォレットを持つならx402またはMPPの必要方式を検証します。
+複数社への発注や従量利用へ進む際には、仕事の親子関係、利用量、相手別上限、部分失敗を管理できることを確認します。さらに多段委任へ広げるには、元の権限と予算が引き継がれ、取引が分岐・変更されても、止める範囲と負担者を追えることが条件になります。
 
-カードでウォレット残高を購入してstablecoinで支払う経路は、売り手がカード売上を受け取る経路とは異なります。資金源と売り手の受取手段を区別します。購入の証拠を相互検証する相手がいればAP2、商品・注文で接続する相手がいればUCPやACPを加える、という順序です。
+- [ ] 利用者と提供事業者に、繰り返し取引する理由がある。
+- [ ] 仲介料の受容性と、決済・評価・回復費用を含む採算を確認できる。
+- [ ] 提供地域・口座・資格・対応版が、実際の買い手と売り手の条件に合う。
+- [ ] 再送や結果不明でも、二重課金や配分漏れを防ぎ、照合できる。
+- [ ] 未納品・品質未達・部分成功に対する再履行、返金、負担者を決められる。
+- [ ] 予算・権限・未精算額に上限を設け、人が停止・介入できる。
 
-<div class="blog-table-wrap" tabindex="0" role="region" aria-label="段階的な導入計画。横にスクロールできます">
-
-| 段階 | 実装・検証する範囲 | 次へ進む判断材料 |
-| --- | --- | --- |
-| 1社・1商品・1経路 | 注文ID、予算、課金、配分、検収、返金、手動停止 | 再送や結果不明時も、二重課金と配分漏れを防げる |
-| 複数社・従量利用 | 親子取引、利用計測、相手別上限、段階精算、部分失敗 | 失敗した範囲を止め、補償と再実行を追える |
-| 多段委任・複数市場 | 権限の連鎖、動的な再配分、合意範囲での集約精算 | 深い取引網でも予算・権限・未精算額を制約できる |
-
-</div>
-
-### 本番移行前に確認すること
-
-- [ ] 買い手、仲介者、提供事業者の地域・口座・支払資格が、選んだ経路の条件を満たす。
-- [ ] 見積から注文、承認、支払先、成果条件までが対応し、金額変更時の再承認を判断できる。
-- [ ] 再送、通知遅延、重複通知、結果不明でも、同じ取引を二重に課金しない。
-- [ ] 予算超過、失効した権限、許可範囲外の支払先への要求を拒否できる。
-- [ ] 入金10ドル、仲介料1ドル、事業者分9ドルを照合し、返金時の回収・相殺も追える。
-- [ ] 未納品、品質未達、部分成功のときに、再履行・返金・負担者を決めて実行できる。
-- [ ] 決済費用と回復費用を差し引いた仲介粗利を測定できる。
-
-評価指標は、決済成功率だけでは足りません。二重課金、未照合入金、返金所要時間、検収不合格、回復に要した費用を合わせて見ます。10％という仲介料が受け入れられるかも、規格の普及とは別の検証です。
-
-仲介者が提供する価値は、相手の選定、条件の整合、成果確認、支払管理、失敗対応にあります。まずその価値と採算を限定実証で確かめ、実際の接続需要と運用実績に合わせて規格と自律性を広げることを提案します。
-
-*仕様と製品条件は変化します。実装着手時と本番移行時に、AP2・MPP等の対象版、SPTとstablecoinの提供地域、配分・返金の条件を再確認してください。FIDOでの統合仕様の公開時期は、本稿では未確認です。*
+エージェントが仕事を買えるようになるほど、その相手と成果を信頼できるかが問われます。**Another Starは、発見・評価・連携から取引の完了までをつなぐことで、企業が外部エージェントへ仕事を任せられる範囲を広げたいと考えています。** その製品価値を、実際の有償取引、継続利用、失敗対応を含む運用実績で確かめていく方針です。
 
 ## 参照した一次情報
+
 
 本文のリンクに加え、設計・採用時に参照する主な仕様と製品文書をまとめます。研究論文は将来像や課題を考える材料であり、市場の到来時期・規模を実証する資料としては扱っていません。
 
